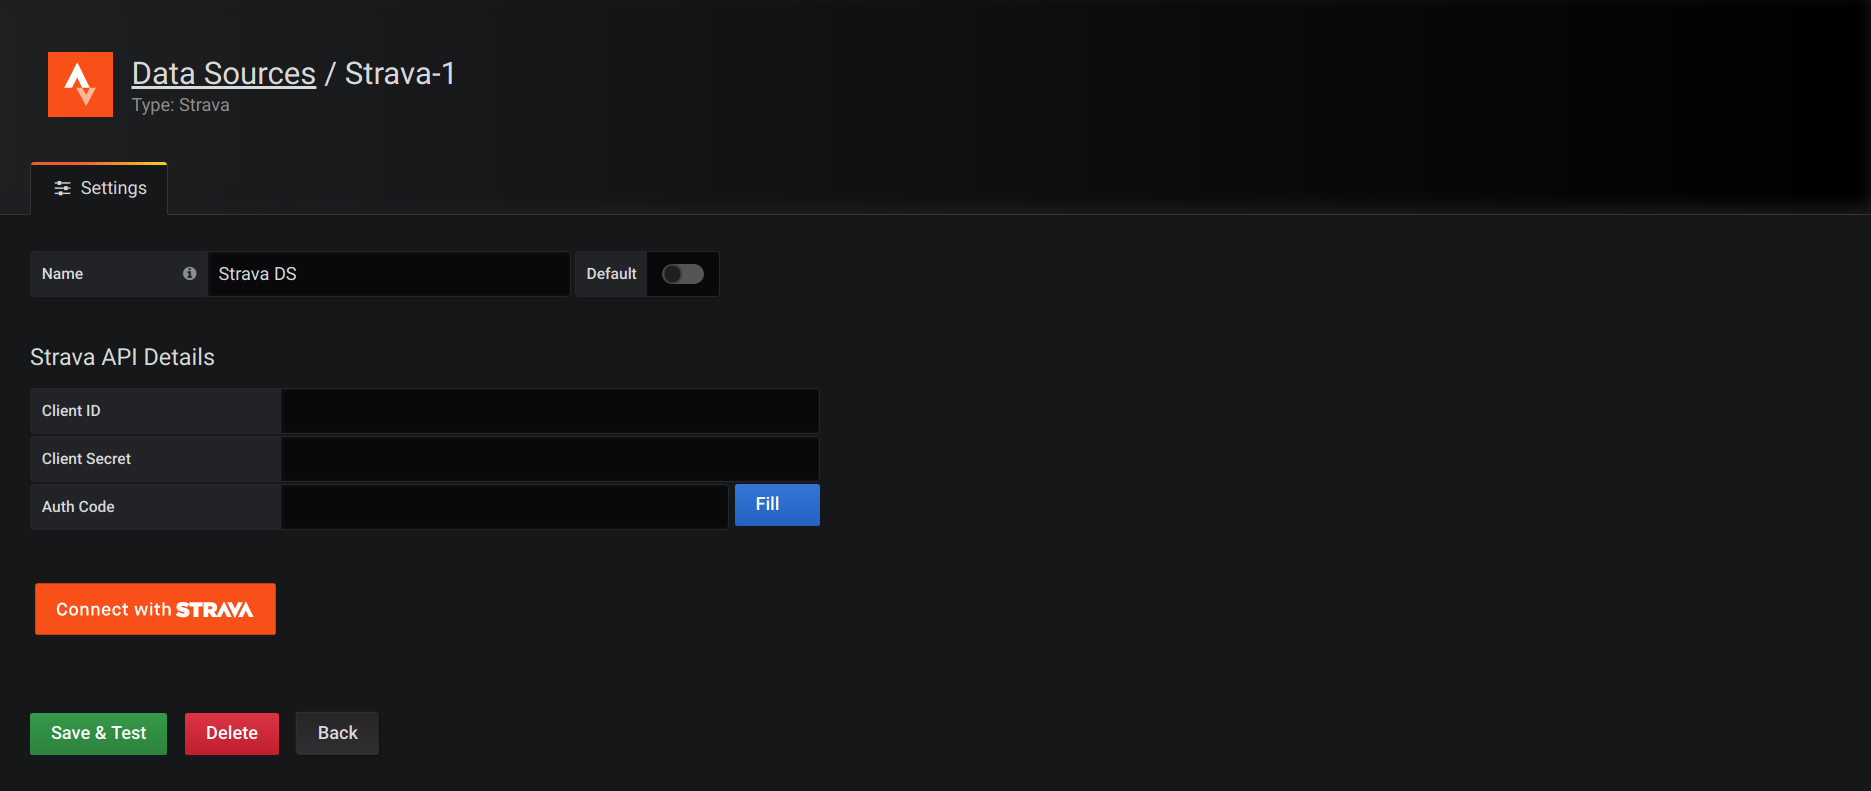
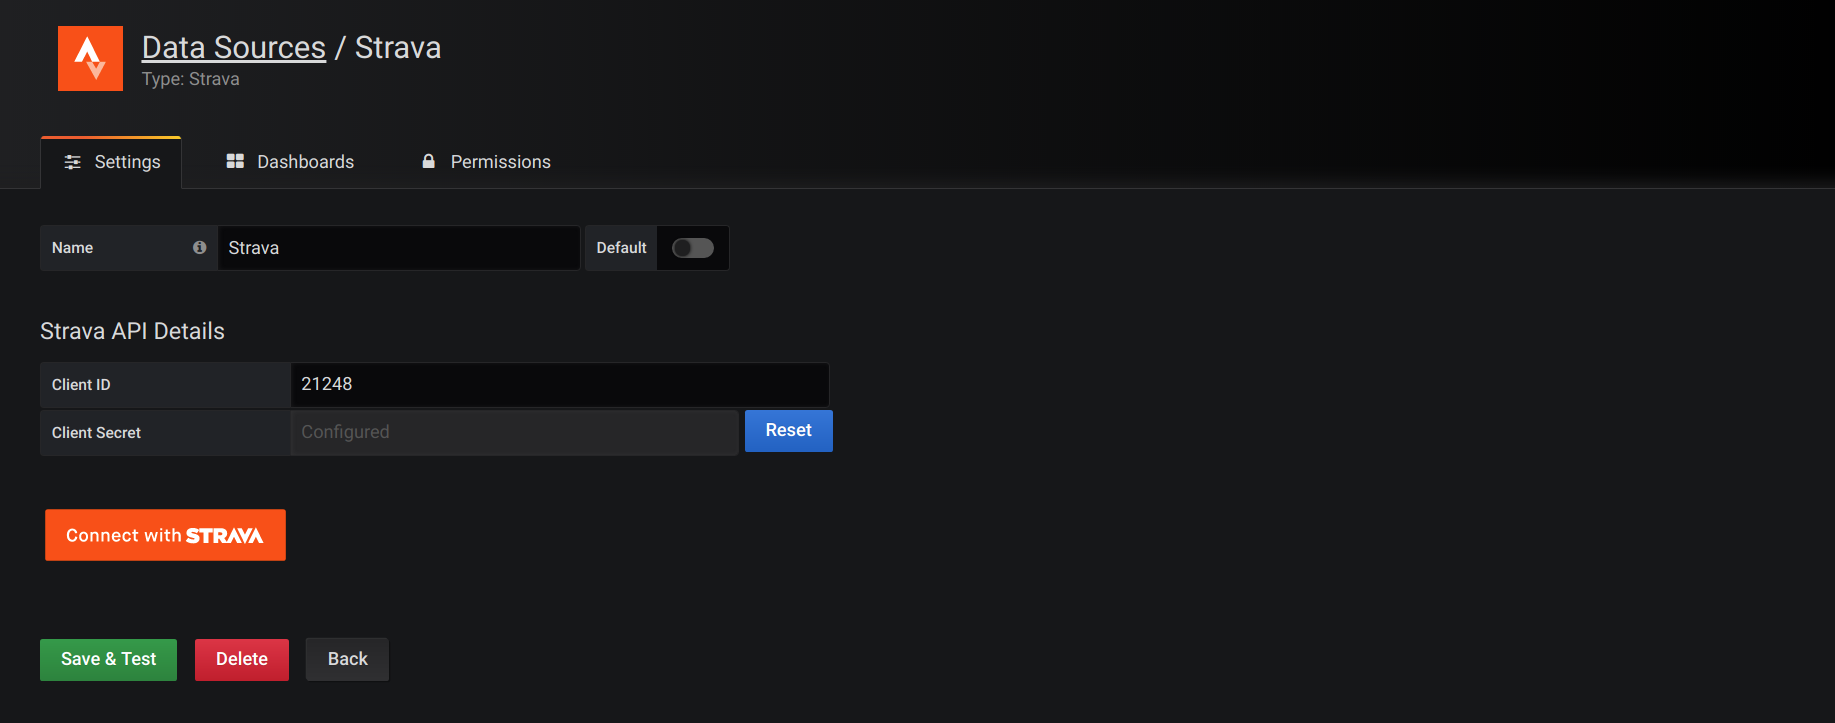
Docs: update datasource configuration instruction

diff --git a/docs/configuration.md b/docs/configuration.md
@@ -23,7 +23,7 @@ Fill _Client ID_ field with value obtained from Strava API application page. Cli
 
 ![Authorize datasource](img/config_2.png)
 
-You will be redirected back to the datasource configuration page. Now fill _Client ID_ and _Client Secret_ fields. To obtain _Auth Code_, click _Fill_ button. Auth Code will be copied from the page URL. Finally, set desired data source name and click _Save & Test_ button. If connection is properly configured, you will see _Data source is working_ message.
+You will be redirected back to the datasource configuration page. Now fill _Client ID_ and _Client Secret_ fields. Finally, set desired data source name and click _Save & Test_ button. If connection is properly configured, you will see _Data source is working_ message.
 
 ![Save & Test](img/config_3.png)
 
